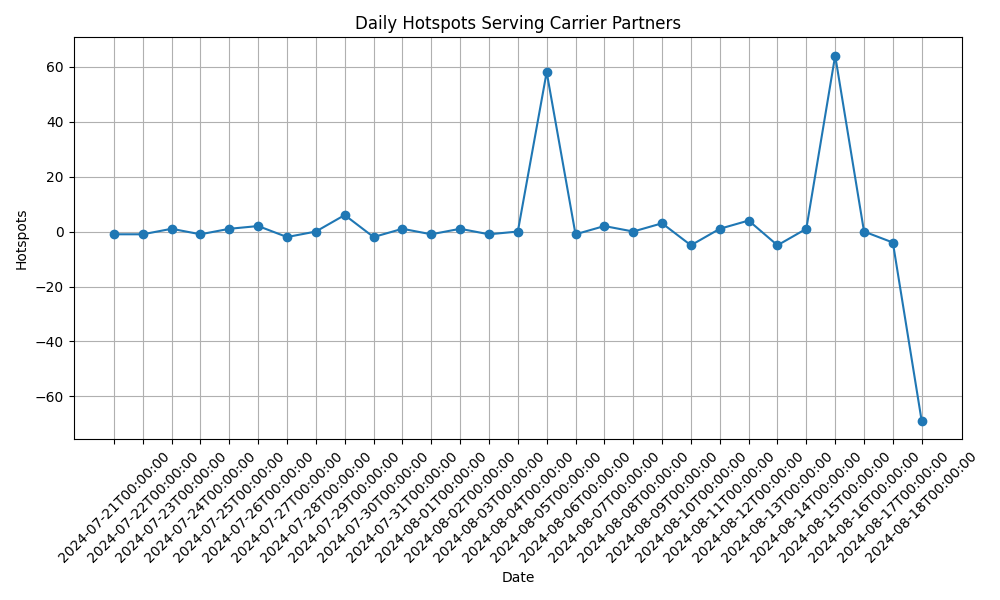
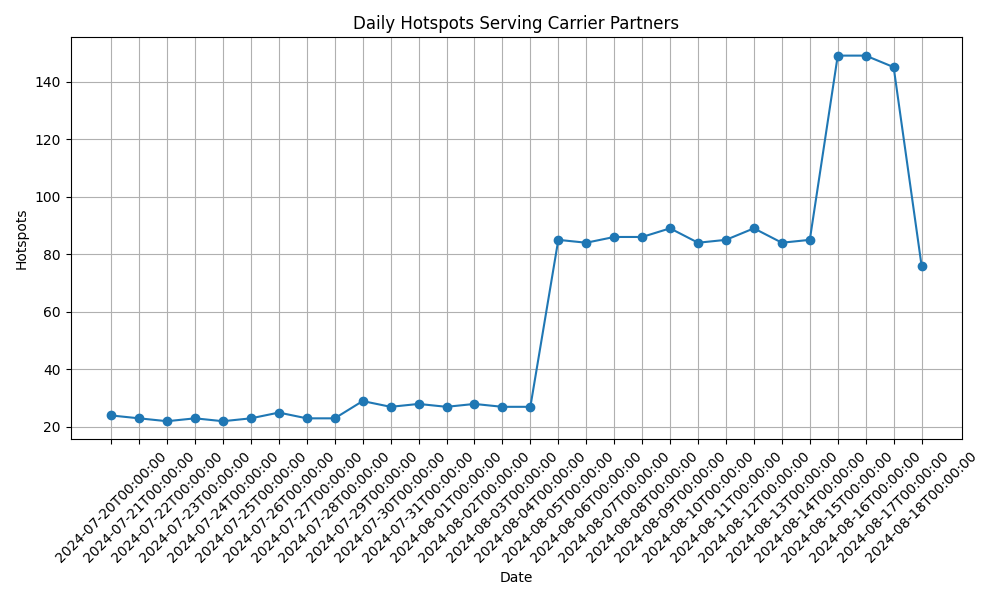
fix chart

Changed region(s): [[0.031, 0.06, 0.93, 0.72], [0.062, 0.75, 0.93, 0.99], [0.341, 0.03, 0.682, 0.06]]

diff --git a/scripts/update_readme_helium_stats.py b/scripts/update_readme_helium_stats.py
@@ -89,14 +89,14 @@ def analyze_data(networks_data, categorized_data, cumulative_data, subscribers_d
     # Compute daily values from cumulative data
     daily_data_transfer_values = compute_daily_values(cumulative_data_values)
     daily_subscribers_values = compute_daily_values(cumulative_subscribers_values)
-    daily_hotspots_values = compute_daily_values(hotspots_values)
+    daily_hotspots_values = hotspots_values  # Keep as it is now, without cumulative conversion
 
     # Adjusting dates to match daily values (removing the first date)
     dates_transfer = dates_transfer[1:]
     dates_subscribers = dates_subscribers[1:]
-    dates_hotspots = dates_hotspots[1:]
+    # dates_hotspots stays unchanged
 
-    # Creating charts for daily values
+    # Creating charts
     cumulative_data_transfer_chart = create_line_chart(
         dates_transfer, daily_data_transfer_values,
         'Daily Data Transfer on Carrier Partners',
